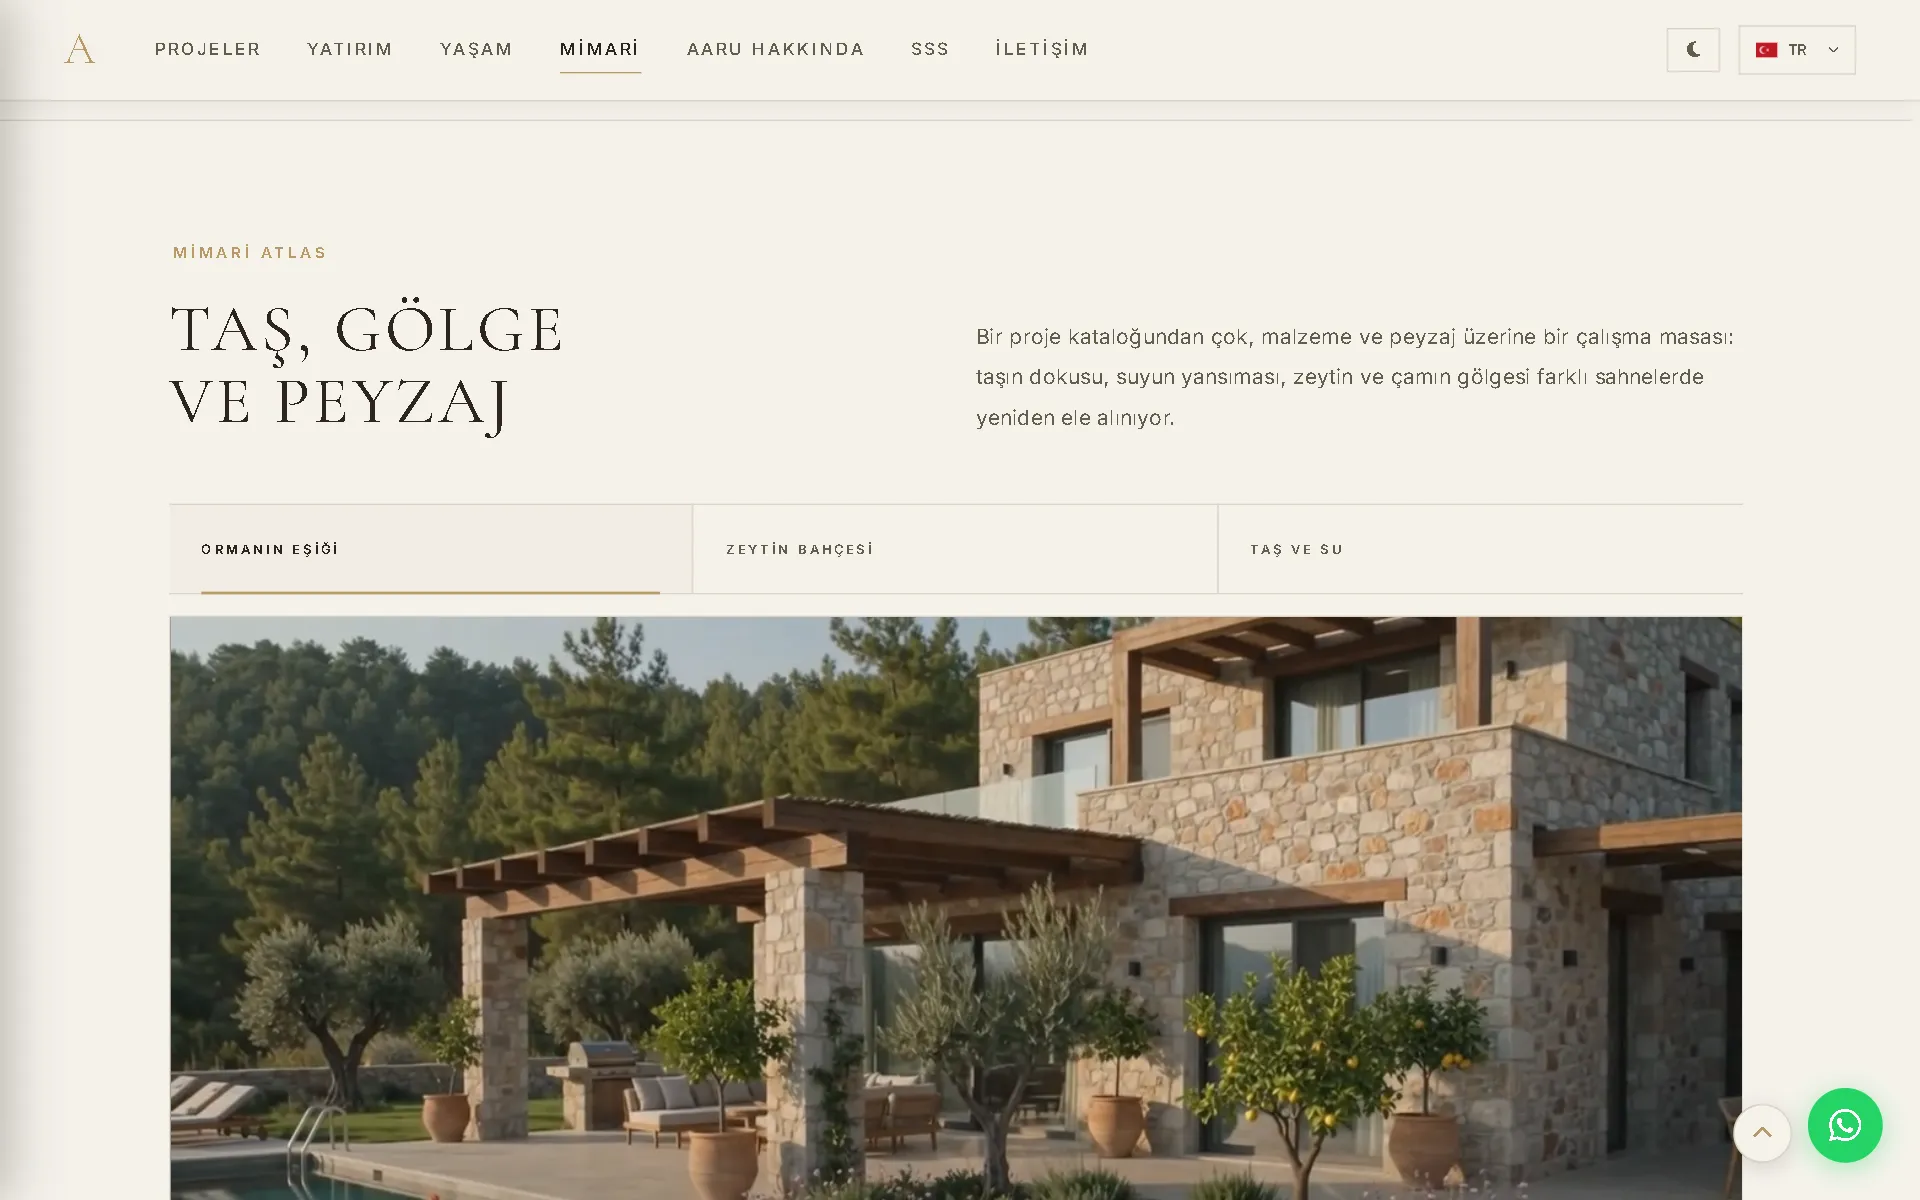
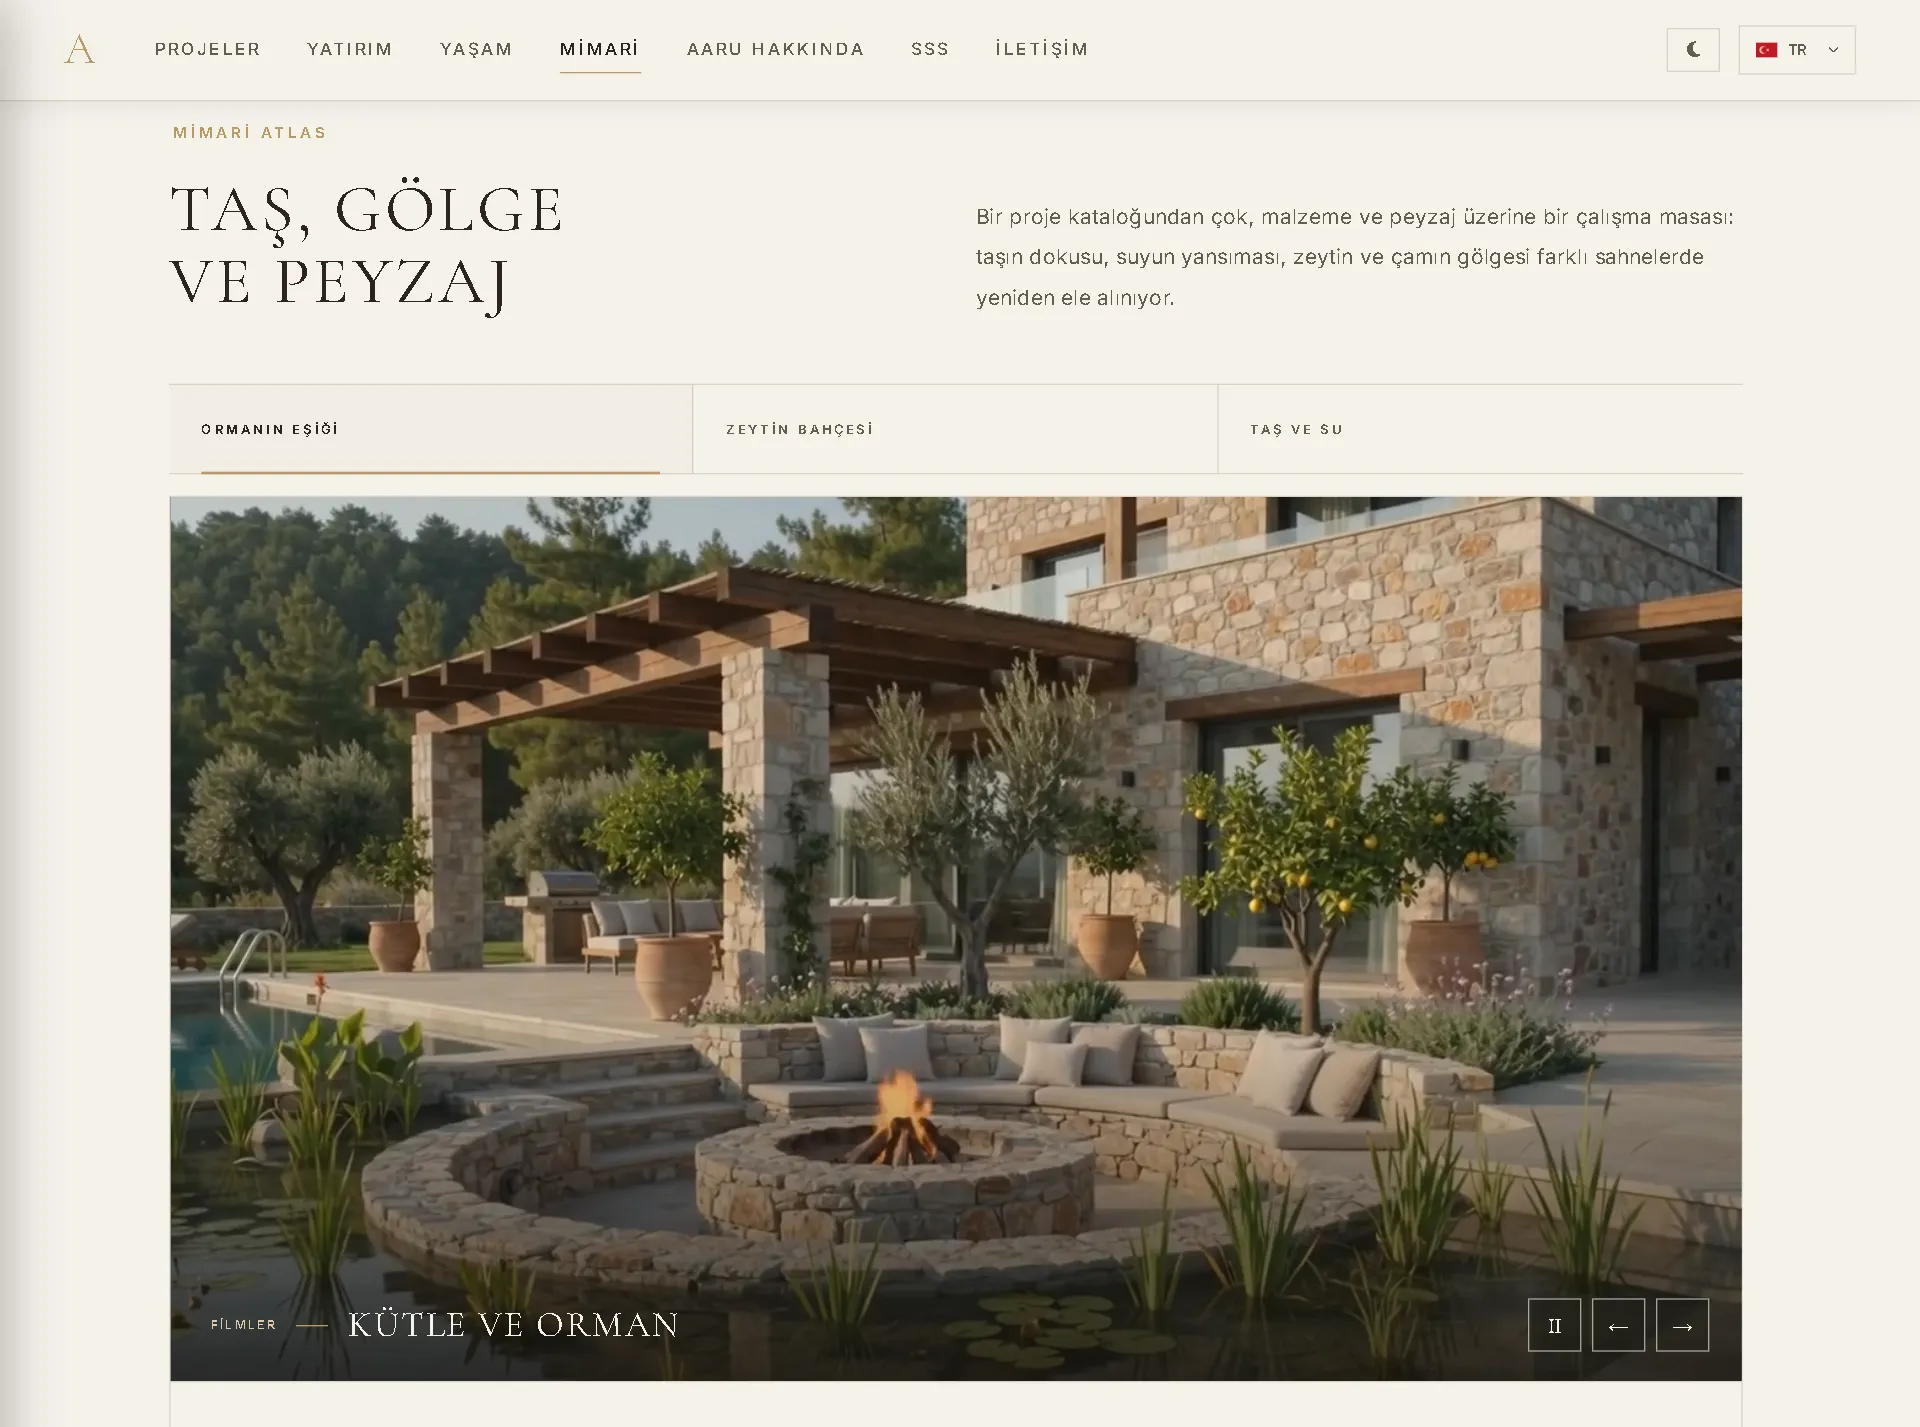
AARU: amac odakli metin ve yarida kesilmeyen galeri gorselleri
Galeri gorselleri ekranin tamami cekildigi icin bolumler alt kenarda
yarida kaliyordu; kart metni de devralma anlatiyordu.

- Gorseller 3-6 bolumun kendi icinde biten parcasindan, oge
  sinirlarina gore kirpildi (aktiviteler bandi, Mimari Atlas, sofra ilk
  sira, portfoy ilk sira).
- Kart ve MOI metni sitenin amacini anlatiyor; devralma ifadeleri
  kaldirildi.

diff --git a/src/components/Projects.jsx b/src/components/Projects.jsx
@@ -82,9 +82,9 @@ const projects = [
     status: 'Canlıda',
     title: 'AARU Group Web Sitesi',
     summary:
-      'Fethiye merkezli bir konut geliştiricisinin 7 dilli kurumsal sitesi — MOI’de devralıp yayına aldığım müşteri projesi.',
+      'Fethiye merkezli lüks konut geliştiricisi AARU Group’un 7 dilli kurumsal sitesi — MOI’de geliştirdiğim müşteri projesi.',
     detail:
-      'MOI Games Bilişim’de devraldığım statik siteyi 5,5 haftada (454 commit) ekibin kendisinin düzenleyebildiği, ziyaretleri ölçülen ve main dalına her girişte otomatik yayınlanan canlı bir siteye dönüştürdüm. Devraldığımda 7 dil ve PWA altyapısı vardı; yerinde düzenleme modu, Supabase veritabanı, yayın hattı, ziyaret ölçümü, güvenlik planı ve Mimari Atlas, Yaşam, Journal bölümleri sonradan benim eklediklerim.',
+      'Sitenin amacı, AARU’nun Fethiye, Dalaman ve Antalya’daki konut projelerini yerli ve yabancı alıcılara yedi dilde tanıtmak, bölgedeki yaşamı (sofra, aktiviteler, mimari) anlatmak ve ziyaretçiyi iletişim formlarıyla potansiyel müşteriye dönüştürmek. Ekip içeriği kod bilmeden sayfanın üzerinden düzenleyebiliyor; site main dalına her girişte otomatik olarak yayınlanıyor.',
     highlights: [
       'Yerinde düzenleme modu: yönetici siteyi gezerek metni 7 dilde, görselleri ve bölüm sırasını değiştiriyor; değişiklik geçmişi ve geri alma',
       'Supabase (PostgreSQL): 34 SQL göç adımıyla şema, yönetici yetkileri, görsel deposu ve değişiklik geçmişi',

diff --git a/src/components/Experience.jsx b/src/components/Experience.jsx
@@ -11,7 +11,7 @@ const items = [
     org: 'MOI Games Bilişim A.Ş.',
     date: 'Tem 2026 – Günümüz',
     meta: 'Müşteri projeleri · Web, veritabanı ve masaüstü',
-    desc: 'MOI’nin teknik tarafını yürütüyorum: GitHub organizasyonunu ve PR tabanlı çalışma düzenini kurdum; AARU Residences için devraldığım statik sitenin arkasına Supabase veritabanını, otomatik yayın hattını, güvenlik planını ve ziyaret ölçüm sistemini kurdum; Seydikemer Beton’un kurumsal sitesini yaptım. Şu anda bir gayrimenkul geliştiricisi için masaüstü karar destek sistemi geliştiriyorum.',
+    desc: 'MOI’nin teknik tarafını yürütüyorum: GitHub organizasyonunu ve PR tabanlı çalışma düzenini kurdum; AARU Group’un 7 dilli kurumsal sitesini Supabase veritabanı, otomatik yayın hattı, güvenlik planı ve ziyaret ölçüm sistemiyle geliştirdim; Seydikemer Beton’un kurumsal sitesini yaptım. Şu anda bir gayrimenkul geliştiricisi için masaüstü karar destek sistemi geliştiriyorum.',
     accent: 'indigo',
     ongoing: true,
   },
